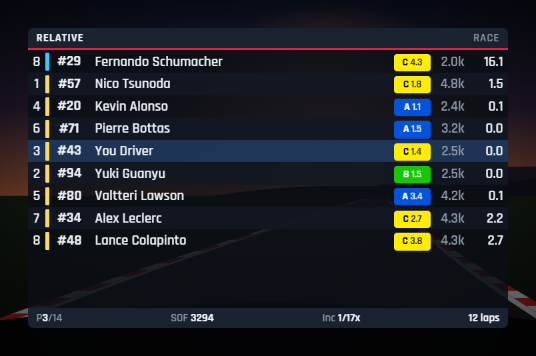
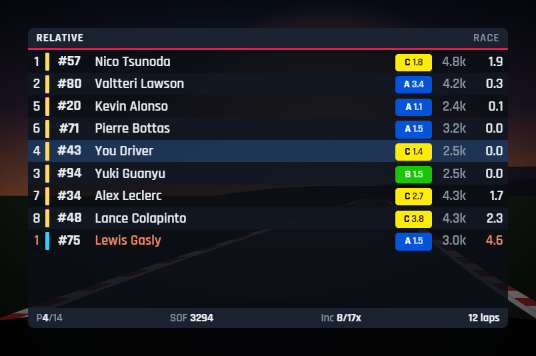
Continuous race gaps; static flag off by default; strobing slip light (v0.4.3)
- Gaps to the cars ahead/behind froze a few minutes into races: they came
  from CarIdxF2Time, which only updates at timing lines. New GapTracker
  records when each car passes 200 points per lap, so gap = time since the
  car ahead was where the car behind is now (continuous, counts laps).
  Standings gap/interval use it too; F2Time is only a fallback.
- Delta gap bars count laps by the real distance between the two cars,
  not the difference of laps-down-to-leader (false "1L").
- Start/finish line glitches (LapCompleted vs LapDistPct) are smoothed.
- Flags overlay: no waving animation; disabled by default and switched
  off once in existing profiles.
- Wheelspin / lock-up light strobes fast while slipping.
- Default GT wheel simplified: flat dark rim and hub, only the top stripe
  in color.

diff --git a/src/main/gaps.js b/src/main/gaps.js
@@ -1,0 +1,85 @@
+/*
+ * Race gaps from our own timing loops. Every car's race progress (laps + lap
+ * fraction) is sampled each frame and the session time is recorded as it passes
+ * each of BINS points around the lap. The gap from a car ahead to a car behind is
+ * then "how long ago the car ahead was where the car behind is now": continuous,
+ * exact at any distance, and it counts whole laps for lapped cars.
+ *
+ * iRacing's CarIdxF2Time only moves when a car crosses a timing line in races, so
+ * gaps built from it freeze between lines.
+ */
+
+const BINS = 200; // timing points per lap
+const KEEP_LAPS = 3; // history kept per car
+
+class GapTracker {
+  constructor() { this.reset(); }
+
+  reset() {
+    this.cars = new Map(); // idx -> { p, t, bin, cross: Map(bin -> time) }
+    this.lastTime = -1;
+  }
+
+  /*
+   * Race progress for one car, fixing the frame or two where LapCompleted and
+   * LapDistPct disagree around the start/finish line. Returns null when the car
+   * is not in the world.
+   */
+  progress(idx, lapCompleted, pct) {
+    if (!(pct >= 0) || lapCompleted < 0) return null;
+    let p = lapCompleted + pct;
+    const prev = this.cars.get(idx);
+    if (prev) {
+      const d = p - prev.p;
+      if (d < -0.5 && d > -1.5 && pct < 0.1) p += 1; // pct wrapped, lap count not yet
+      else if (d > 0.5 && d < 1.5 && pct > 0.9) p -= 1; // lap count ahead of pct
+    }
+    return p;
+  }
+
+  update(time, entries) {
+    if (time < this.lastTime) this.reset(); // replay rewind / new session
+    this.lastTime = time;
+    const seen = new Set();
+    for (const { idx, p } of entries) {
+      if (p === null) continue;
+      seen.add(idx);
+      const bin = Math.floor(p * BINS);
+      let c = this.cars.get(idx);
+      if (!c) { this.cars.set(idx, { p, t: time, bin, cross: new Map() }); continue; }
+      if (bin > c.bin && bin - c.bin < BINS / 4 && p > c.p) {
+        // fill each timing point passed since the last frame, interpolated in time
+        for (let b = c.bin + 1; b <= bin; b++) {
+          const f = (b / BINS - c.p) / (p - c.p);
+          c.cross.set(b, c.t + (time - c.t) * Math.max(0, Math.min(1, f)));
+        }
+        const oldest = bin - KEEP_LAPS * BINS;
+        for (const b of c.cross.keys()) { if (b < oldest) c.cross.delete(b); else break; }
+      } else if (Math.abs(bin - c.bin) >= BINS / 4) {
+        c.cross.clear(); // teleported (tow, reset): history no longer lines up
+      }
+      c.p = p; c.t = time; c.bin = bin;
+    }
+    for (const idx of this.cars.keys()) if (!seen.has(idx)) this.cars.delete(idx);
+  }
+
+  // Seconds since the car `front` was at the current position of `back`, or null.
+  gap(front, back) {
+    const f = this.cars.get(front), b = this.cars.get(back);
+    if (!f || !b || f.p < b.p) return null;
+    if (f.p - b.p < 1 / BINS) return Math.max(0, (f.p - b.p) * (this.lapTime(f) || 0));
+    const x = b.p * BINS, i = Math.floor(x);
+    const t0 = f.cross.get(i), t1 = f.cross.get(i + 1);
+    if (t0 === undefined) return null;
+    const t = t1 === undefined ? t0 : t0 + (t1 - t0) * (x - i);
+    return Math.max(0, this.lastTime - t);
+  }
+
+  // The car's last full-lap time from its own timing points (for sub-bin gaps).
+  lapTime(c) {
+    const a = c.cross.get(c.bin), z = c.cross.get(c.bin - BINS);
+    return a !== undefined && z !== undefined ? a - z : 0;
+  }
+}
+
+module.exports = { GapTracker, BINS };

diff --git a/src/main/model.js b/src/main/model.js
@@ -5,6 +5,7 @@
 
 const { TimingTracker } = require('./timing');
 const { SlipEstimator } = require('./slip');
+const { GapTracker } = require('./gaps');
 
 const TRACK_BINS = 500;
 
@@ -66,6 +67,7 @@ class RaceModel {
     this.classesCache = [];
     this.timing = new TimingTracker();
     this.slip = new SlipEstimator();
+    this.gaps = new GapTracker();
   }
 
   parseInfo(info) {
@@ -140,6 +142,7 @@ class RaceModel {
       this.fuelLaps = [];
       this.fuelLapStart = null;
       this.timing.reset();
+      this.gaps.reset();
     }
     const sdef = this.sessionDef(v.SessionNum);
     const kind = sessionKind(sdef.SessionType);
@@ -149,7 +152,14 @@ class RaceModel {
     const playerIdx = v.PlayerCarIdx ?? this.driverCarIdx;
     const focusIdx = settings.focusCamCar && v.IsReplayPlaying && v.CamCarIdx >= 0 ? v.CamCarIdx : playerIdx;
 
-    const lapDist = (i) => (v.CarIdxLapCompleted?.[i] ?? -1) + Math.max(0, v.CarIdxLapDistPct?.[i] ?? 0);
+    // Race progress per car (laps + fraction), with start/finish line glitches smoothed out.
+    const progress = new Map();
+    for (const d of this.drivers.values()) {
+      if (d.isPace || d.isSpectator) continue;
+      progress.set(d.idx, this.gaps.progress(d.idx, v.CarIdxLapCompleted?.[d.idx] ?? -1, v.CarIdxLapDistPct?.[d.idx] ?? -1));
+    }
+    this.gaps.update(v.SessionTime ?? 0, [...progress].map(([idx, p]) => ({ idx, p })));
+    const lapDist = (i) => progress.get(i) ?? ((v.CarIdxLapCompleted?.[i] ?? -1) + Math.max(0, v.CarIdxLapDistPct?.[i] ?? 0));
 
     // ---- Cars ----
     const cars = [];
@@ -235,9 +245,15 @@ class RaceModel {
         if (isRace) {
           const ahead = k.cars[n - 1];
           c.lapsDown = Math.max(0, Math.floor(leader.dist - c.dist + 0.0001));
-          c.gap = n === 0 ? 0 : c.f2 - leader.f2;
+          // Own timing loops first; CarIdxF2Time only updates at timing lines in races.
+          c.gap = n === 0 ? 0 : this.gaps.gap(leader.idx, c.idx);
+          if (c.gap === null) c.gap = c.f2 - leader.f2;
           if (!(c.gap >= 0) || c.gap > estLap * 3) c.gap = ((leader.dist - c.dist) * estLap);
-          c.interval = n === 0 ? null : c.gap - ahead.gap;
+          if (n === 0) c.interval = null;
+          else {
+            c.interval = this.gaps.gap(ahead.idx, c.idx);
+            if (c.interval === null) c.interval = Math.max(0, c.gap - ahead.gap);
+          }
           if (c.startPos) c.posGain = c.startPos - c.classPosition;
         } else if (c.bestLap > 0 && k.bestLap > 0) {
           c.gap = c.bestLap - k.bestLap;

diff --git a/src/renderer/lib/wheels.js b/src/renderer/lib/wheels.js
@@ -15,18 +15,14 @@
     </defs>`;
 
   const STYLES = {
-    // GT3-style: silver rim, rubber side grips, hub with display and buttons
+    // GT3-style, kept quiet: dark rim and grips, plain hub, only the top stripe in color
     gt: `
-      <path d="M-37 -14 C-37 -34 -20 -41 0 -41 C20 -41 37 -34 37 -14" fill="none" stroke="url(#wRim)" stroke-width="7" stroke-linecap="round"/>
-      <path d="M-33 20 C-28 31 -16 33 0 33 C16 33 28 31 33 20" fill="none" stroke="url(#wRim)" stroke-width="7" stroke-linecap="round"/>
-      <rect x="-47" y="-20" width="16" height="44" rx="8" fill="url(#wGrip)" stroke="rgba(255,255,255,.18)" stroke-width="1"/>
-      <rect x="31" y="-20" width="16" height="44" rx="8" fill="url(#wGrip)" stroke="rgba(255,255,255,.18)" stroke-width="1"/>
-      <path d="M-31 2 L-15 2 M31 2 L15 2" stroke="#2a303c" stroke-width="7" stroke-linecap="round"/>
-      <rect x="-16" y="-13" width="32" height="28" rx="7" fill="url(#wHub)" stroke="rgba(255,255,255,.16)" stroke-width="1"/>
-      <rect x="-9" y="-8" width="18" height="9" rx="2" fill="#07090c" stroke="rgba(255,255,255,.08)" stroke-width=".8"/>
-      <path d="M-6 -3.5 H6" stroke="var(--accent)" stroke-width="2" stroke-linecap="round"/>
-      <circle cx="-10.5" cy="7.5" r="2.4" fill="#ef4444"/><circle cx="-3.5" cy="8.5" r="2.4" fill="#facc15"/>
-      <circle cx="3.5" cy="8.5" r="2.4" fill="#3b82f6"/><circle cx="10.5" cy="7.5" r="2.4" fill="#22c55e"/>
+      <path d="M-37 -14 C-37 -34 -20 -41 0 -41 C20 -41 37 -34 37 -14" fill="none" stroke="#4b5260" stroke-width="7" stroke-linecap="round"/>
+      <path d="M-33 20 C-28 31 -16 33 0 33 C16 33 28 31 33 20" fill="none" stroke="#4b5260" stroke-width="7" stroke-linecap="round"/>
+      <rect x="-47" y="-20" width="16" height="44" rx="8" fill="#2a2f38"/>
+      <rect x="31" y="-20" width="16" height="44" rx="8" fill="#2a2f38"/>
+      <path d="M-31 2 L-15 2 M31 2 L15 2" stroke="#2a2f38" stroke-width="7" stroke-linecap="round"/>
+      <rect x="-16" y="-13" width="32" height="28" rx="7" fill="#1c2028"/>
       <rect x="-3.2" y="-45" width="6.4" height="8" rx="1.6" fill="var(--accent)"/>`,
 
     // Classic round 3-spoke: leather rim with stitching, brushed spokes

diff --git a/src/renderer/widgets/flags.js b/src/renderer/widgets/flags.js
@@ -1,8 +1,6 @@
 Host.css(`
 .flagw { position:absolute; inset:0; display:flex; align-items:center; justify-content:center; gap:.6rem; padding:.3rem; }
-.flagw .flag { flex:none; height:min(80%, 5rem); aspect-ratio: 3 / 2; border-radius:4px; box-shadow:0 2px 10px rgba(0,0,0,.5); transform-origin:left center; position:relative; overflow:hidden; }
-.flagw.animate .flag { animation: wave 1s ease-in-out infinite; }
-@keyframes wave { 0%,100% { transform: perspective(200px) rotateY(0deg) skewY(0deg); } 50% { transform: perspective(200px) rotateY(-14deg) skewY(-3deg); } }
+.flagw .flag { flex:none; height:min(80%, 5rem); aspect-ratio: 3 / 2; border-radius:4px; box-shadow:0 2px 10px rgba(0,0,0,.5); position:relative; overflow:hidden; }
 .flagw .label { font-weight:700; font-size:1.1rem; white-space:nowrap; line-height:1.1; letter-spacing:.05em; text-transform:uppercase; text-shadow:0 1px 4px #000; }
 .flag.checkered { background: repeating-conic-gradient(#111 0 25%, #f5f5f5 0 50%) 0 0 / 25% 33.4%; }
 .flag.yellow { background:#facc15; }
@@ -56,7 +54,6 @@ Host.register('flags', function (root) {
       prevGreen = green;
       if (!p && s.showGreen && green && now < greenUntil) p = ['green', 'Green'];
       if (!p && ctx.editMode) p = ['yellow', 'Preview'];
-      wrap.classList.toggle('animate', !!s.animate);
       const key = p ? p.join('|') + s.showText : '';
       if (key === lastKey) return;
       lastKey = key;

diff --git a/src/renderer/widgets/dash.js b/src/renderer/widgets/dash.js
@@ -10,7 +10,9 @@ Host.css(`
 .dash .lights { display:flex; gap:.2rem; flex:none; }
 .dash .lights i { flex:1; height:.3rem; border-radius:2px; background:rgba(255,255,255,.08); }
 .dash .lights.flash i:not(.slip) { animation: dashflash .12s steps(2) infinite; }
-.dash .lights i.slip { transition: background .08s, box-shadow .08s; }
+.dash .lights i.slip.on { background:var(--slip); box-shadow:0 0 .5rem var(--slip); animation: slipstrobe 60ms steps(1) infinite; }
+/* fast strobe: ~35 ms lit, ~25 ms dark (a couple of display frames each), easy to catch in peripheral vision */
+@keyframes slipstrobe { 0% { opacity:1; } 58% { opacity:.1; } }
 .dash .lights i.slip.start { margin-right:.3rem; }
 .dash .lights i.slip.end { margin-left:.3rem; }
 @keyframes dashflash { 50% { opacity:.15 } }
@@ -272,8 +274,8 @@ Host.register('dash', function (root) {
         if (shown !== slipShown) {
           slipShown = shown;
           const col = shown === 'spin' ? s.spinColor : shown === 'lock' ? s.lockColor : '';
-          slipEl.style.background = col;
-          slipEl.style.boxShadow = col ? `0 0 .5rem ${col}` : '';
+          if (col) slipEl.style.setProperty('--slip', col);
+          slipEl.classList.toggle('on', !!col);
           slipEl.title = shown === 'spin' ? 'Wheelspin' : shown === 'lock' ? 'Lock-up' : '';
         }
       }

diff --git a/src/renderer/widgets/delta.js b/src/renderer/widgets/delta.js
@@ -47,10 +47,12 @@ Host.register('delta', function (root) {
       const same = cars.filter((c) => c.classId === me.classId && c.classPosition > 0);
       const a = same.find((c) => c.classPosition === me.classPosition - 1);
       const b = same.find((c) => c.classPosition === me.classPosition + 1);
-      const gapOf = (x, y) => (x && y && x.gap !== null && y.gap !== null ? Math.abs(y.gap - x.gap) : null); // seconds between two cars
+      // interval = seconds to the class car directly ahead; laps by actual distance between the two
+      const gapOf = (x, y) => (y.interval !== null && y.interval !== undefined ? y.interval : x.gap !== null && y.gap !== null ? Math.abs(y.gap - x.gap) : null);
+      const lapsOf = (x, y) => (state.session.isRace ? Math.max(0, Math.floor(x.dist - y.dist + 0.0001)) : 0);
       return {
-        ahead: a ? { car: a, gap: gapOf(a, me), laps: Math.max(0, me.lapsDown - a.lapsDown) } : null,
-        behind: b ? { car: b, gap: gapOf(me, b), laps: Math.max(0, b.lapsDown - me.lapsDown) } : null,
+        ahead: a ? { car: a, gap: gapOf(a, me), laps: lapsOf(a, me) } : null,
+        behind: b ? { car: b, gap: gapOf(me, b), laps: lapsOf(me, b) } : null,
       };
     }
     const rel = state.relative || [];

diff --git a/src/shared/registry.js b/src/shared/registry.js
@@ -236,13 +236,12 @@
       description: 'Large flag indicator for yellow, blue, white, checkered, black and more.',
       bounds: { x: 1180, y: 40, width: 220, height: 110 },
       needs: ['session', 'player'],
-      defaults: { bgOpacity: 0, showHeader: false, fps: 10 },
+      defaults: { enabled: false, flagsV2: true, bgOpacity: 0, showHeader: false, fps: 10 },
       schema: [
         { key: 'showGreen', label: 'Show green flag', type: 'bool', default: true },
         { key: 'greenSeconds', label: 'Green shown for (s)', type: 'number', min: 1, max: 30, default: 5 },
         { key: 'showBlue', label: 'Show blue flag', type: 'bool', default: true },
         { key: 'showMeatball', label: 'Show repair (meatball)', type: 'bool', default: true },
-        { key: 'animate', label: 'Waving animation', type: 'bool', default: true },
         { key: 'showText', label: 'Show text label', type: 'bool', default: true },
       ],
     },

diff --git a/src/main/config.js b/src/main/config.js
@@ -59,6 +59,7 @@ function migrate(cfg) {
     compactDash(p.overlays.dash);
     radarRing(p.overlays.radar);
     deltaGaps(p.overlays.delta);
+    flagsOff(p.overlays.flags);
     for (const odef of Registry.OVERLAYS) {
       const base = Registry.defaultSettingsFor(odef);
       const cur = p.overlays[odef.id] || {};
@@ -121,6 +122,14 @@ function deltaGaps(delta) {
   if (!delta || delta.deltaV2) return;
   if (delta.bounds && delta.bounds.height < 100) delta.bounds = { ...delta.bounds, height: 110 };
   delta.deltaV2 = true;
+}
+
+// v0.4.3 made the flag static and hidden by default: switch it off once in existing profiles.
+function flagsOff(flags) {
+  if (!flags || flags.flagsV2) return;
+  flags.enabled = false;
+  delete flags.animate;
+  flags.flagsV2 = true;
 }
 
 const MAX_BACKUPS = 15;

diff --git a/README.md b/README.md
@@ -53,13 +53,13 @@ and no extra services.
 |---|---|
 | **Standings** | Multiclass grouping with class SOF, gap/interval, last/best (purple = fastest), iRating, license/SR, **estimated iRating +/-**, positions gained, pit-stop count, and "keep my car visible" windowing |
 | **Relative** | Cars around you by live time gap, lapping/lapped coloring, pit tags, and an info bar (position, SOF, incidents, time left) |
-| **Dashboard & Inputs** | Car-specific shift lights (from iRacing's SL RPMs), gear, speed, RPM bar, a throttle/brake/clutch trace with ABS-colored brake, pedal bars, a rotating wheel, lap/last/best/delta, fuel, brake bias, engine warnings and pit limiter, plus a **wheelspin / lock-up light**. Every block can be switched off |
+| **Dashboard & Inputs** | Car-specific shift lights (from iRacing's SL RPMs), gear, speed, RPM bar, a throttle/brake/clutch trace with ABS-colored brake, pedal bars, a rotating wheel, lap/last/best/delta, fuel, brake bias, engine warnings and pit limiter, plus a **wheelspin / lock-up light** that strobes while slipping. Every block can be switched off |
 | **Lap Timing** | Live sector times for the current lap (green = personal best, purple = best in your class this session), last/best/optimal lap, and a lap log with sectors, delta to best, fuel used, and off-track/pit flags |
 | **Fuel Calculator** | Rolling average, last and max per lap (green-flag laps only), laps left, fuel to finish with a safety margin, amount to add, stops needed |
 | **Delta Bar** | Delta vs best, optimal, session best, session optimal or last lap, trend coloring, predicted lap |
 | **Track Map** | **Learned automatically** by dead-reckoning your first clean lap, then saved per track. Shows class colors, pit cars and the S/F line, with rotate/mirror |
 | **Session Info** | Session, time or laps left, lap, position, incidents vs limit, SOF, temperatures, wetness, local and sim clock |
-| **Flags** | Checkered, red, black, meatball, caution, debris, yellow, blue, white, one-to-green and green, with a waving animation |
+| **Flags** | Checkered, red, black, meatball, caution, debris, yellow, blue, white, one-to-green and green. Off by default; enable it in settings |
 
 ## Screenshots
 
